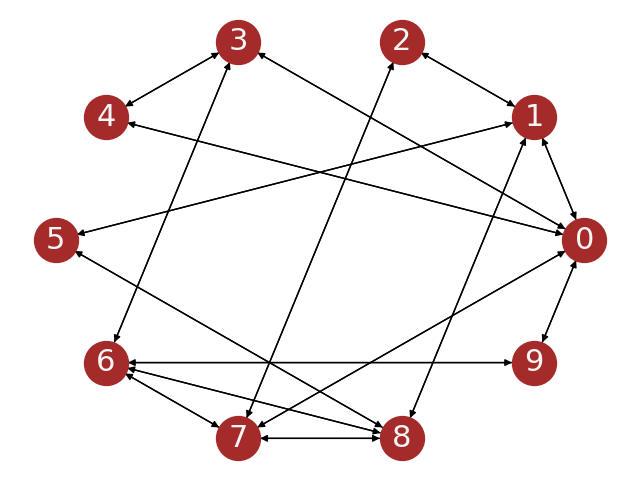
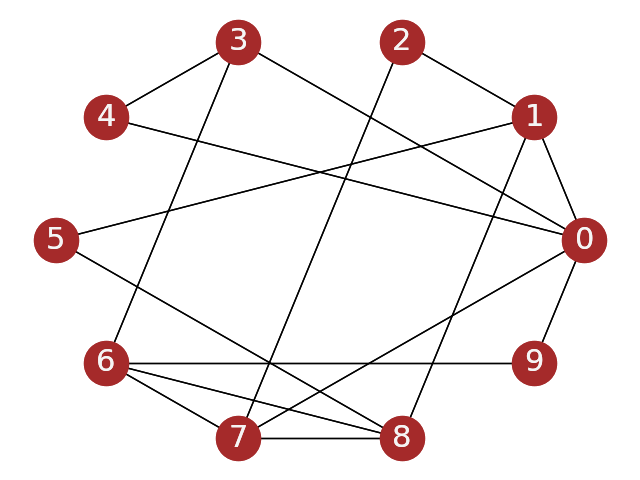
clear plot

diff --git a/main.py b/main.py
@@ -25,21 +25,20 @@ matplotlib.use('agg')
 path_fig = "fig.png"
 path_paint = "paint_gif.png"
 @app.post("/show_graph")
-def show_graph(graph: List[List[int]] = matrix):
-    G = nx.DiGraph(np.array(graph))
+def show_graph(graph: List[List[int]]):
+    G = nx.Graph(np.matrix(graph), create_using=nx.Graph)
     nx.draw_circular(G, node_color='brown',font_color = "whitesmoke", node_size=1000,font_size=22, with_labels=True)
-    plt.show(block=False)
     plt.savefig(path_fig, format="PNG")
+    plt.clf()
     return FileResponse(path=path_fig)
 
 @app.post("/paint_graph")
-def paint_graph(graph: List[List[int]]= matrix):
-    G = nx.DiGraph(np.array(graph))
+def paint_graph(graph: List[List[int]]):
+    G = nx.Graph(np.matrix(graph), create_using=nx.Graph)
     colorlist = list(paint_graph(graph))
-    print(colorlist)
     nx.draw_circular(G, node_color=colorlist,font_color = "black", node_size=1000,font_size=22, with_labels=True)
-    plt.show(block=False)
     plt.savefig(path_paint, format="PNG")
+    plt.clf()
     return FileResponse(path=path_paint)
 
 def paint_graph(graph:List[List[int]]):
